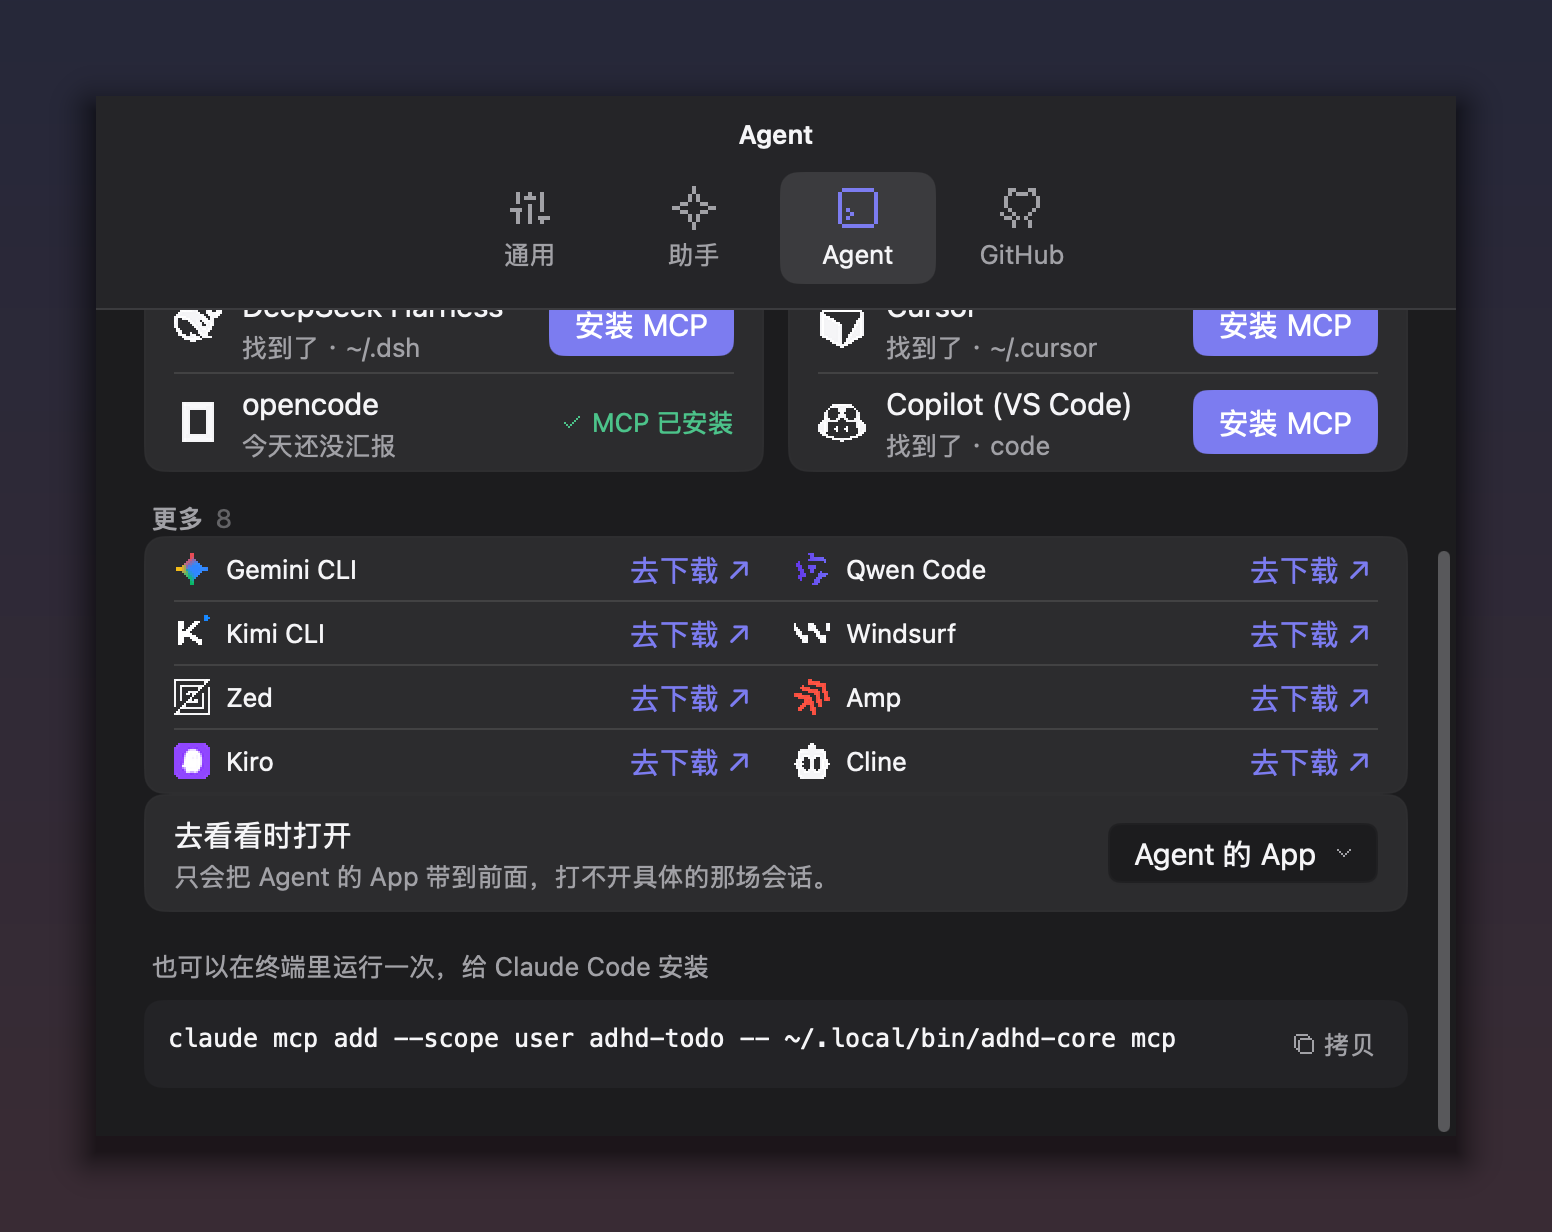
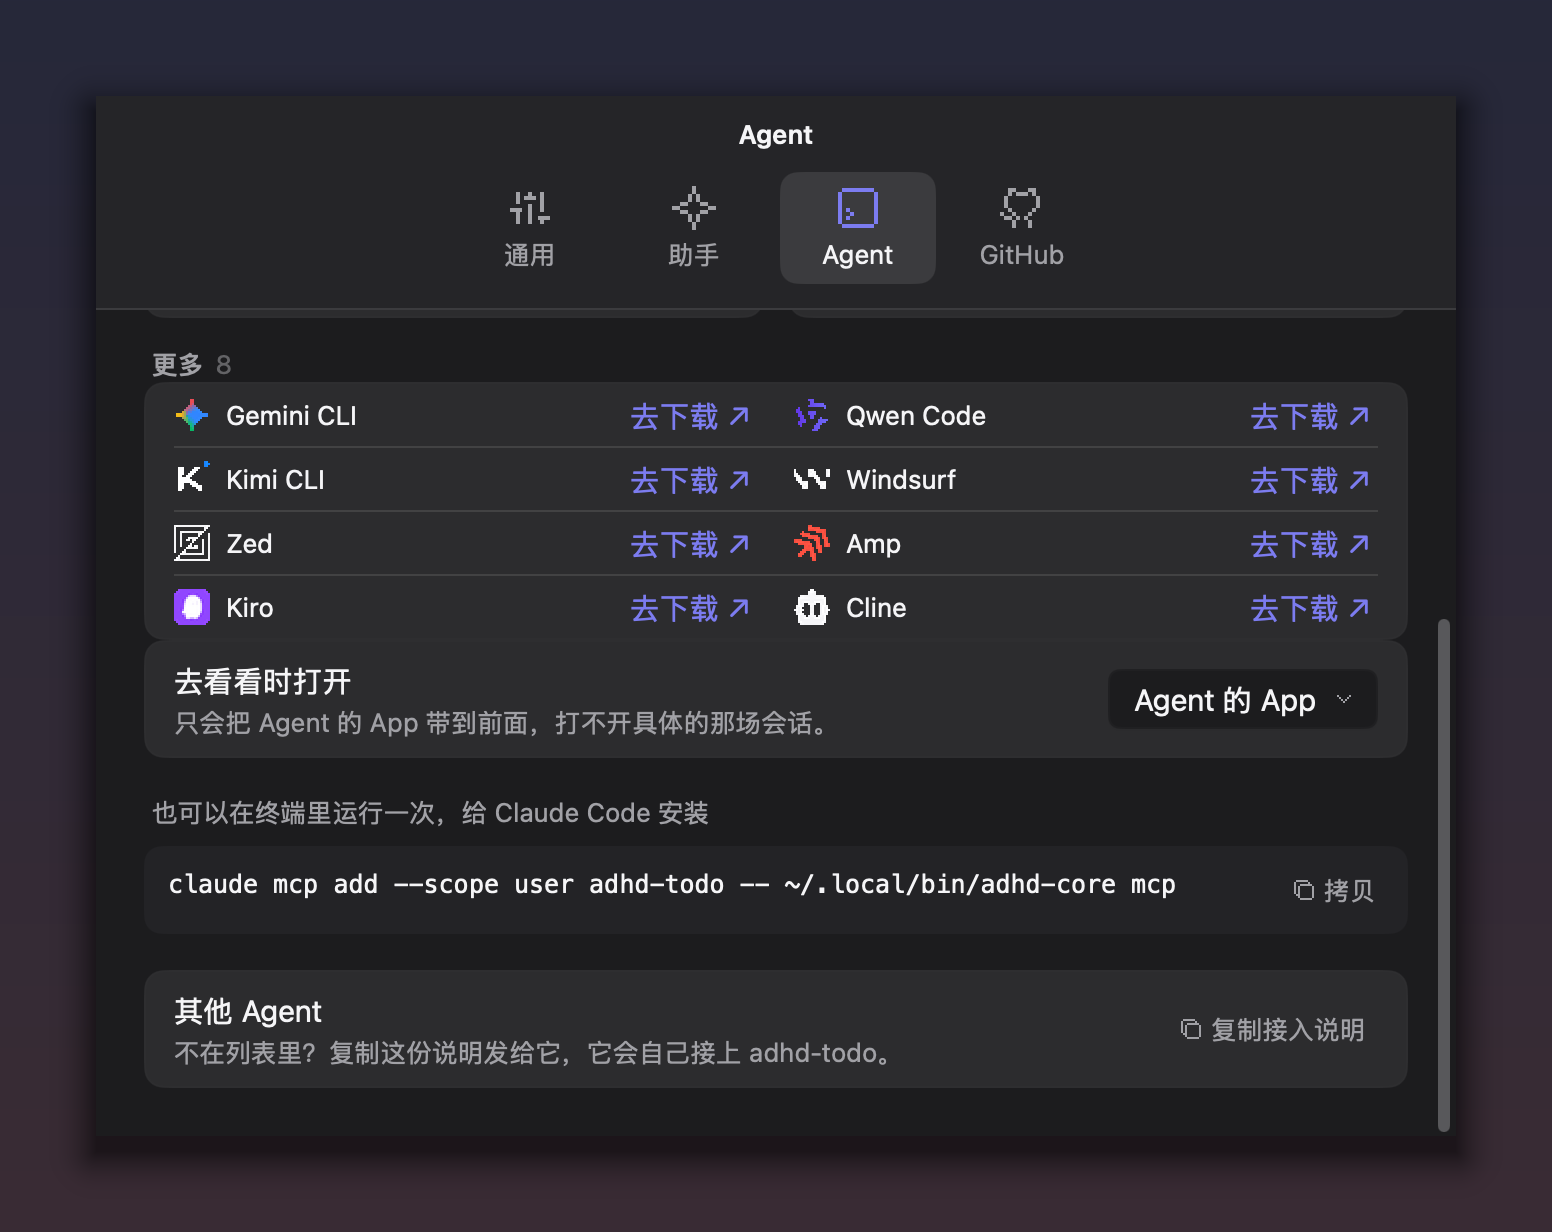
feat(agentsetup): a setup guide any agent can follow to add adhd-todo itself, printed by adhd-core guide and copied from Settings > Agents (#86)

diff --git a/app/views/settings_agents.go b/app/views/settings_agents.go
@@ -78,6 +78,13 @@ func (s *Settings) agentsPane(c *ui.Context, t *theme.Tokens) {
 		theme.Text(c, theme.Meta, t.TextSecondary, s.say.SettingsAgentsCommand()).Margin(0, 4)
 		commandWell(c, t, s.app.Config.ConnectCommand, func() { s.copyButton(c, t, "copy", s.app.Config.ConnectCommand) })
 	})
+	if env := s.app.Config.AgentSetup; env != nil {
+		group(c, t, "other-agent", func() {
+			settingsRow(c, t, "other-agent", s.say.SettingsAgentOther(), s.say.SettingsAgentOtherBody(), true, func() {
+				s.copyGuideButton(c, t, "copy-guide", env)
+			})
+		})
+	}
 }
 
 // splitAgents sorts the catalog into the ones on this Mac and the ones still to get. An agent
@@ -330,7 +337,12 @@ func (s *Settings) finishInstall(env *agentsetup.Env, a agentsetup.Agent, err er
 func (s *Settings) manualPanel(c *ui.Context, t *theme.Tokens, h *manualHint) {
 	ui.Column(c.Key("agent-manual")).Shrink(0).Gap(8).Margin(0, 0, 18).Children(func() {
 		theme.Paragraph(c, theme.Meta, t.TextSecondary, s.say.SettingsAgentManual(withTilde(h.file, s.app.Config.AgentSetup.Home)), 0).Margin(0, 4)
-		commandWell(c, t, h.snippet, func() { s.copyButton(c, t, "copy-manual", h.snippet) })
+		commandWell(c, t, h.snippet, func() {
+			ui.Column(c).Shrink(0).AlignItems(ui.End).Children(func() {
+				s.copyButton(c, t, "copy-manual", h.snippet)
+				s.copyGuideButton(c, t, "copy-guide-manual", s.app.Config.AgentSetup)
+			})
+		})
 	})
 }
 
@@ -346,9 +358,19 @@ func commandWell(c *ui.Context, t *theme.Tokens, command string, beside func()) 
 
 // copyButton copies text; for copiedFor afterwards it says Copied. key tells two buttons apart.
 func (s *Settings) copyButton(c *ui.Context, t *theme.Tokens, key, text string) {
+	s.copyAs(c, t, key, text, s.say.SettingsCopy(), s.say.A11yCopyCommand())
+}
+
+// copyGuideButton copies the guide any agent can follow to add adhd-todo to itself.
+func (s *Settings) copyGuideButton(c *ui.Context, t *theme.Tokens, key string, env *agentsetup.Env) {
+	s.copyAs(c, t, key, env.Guide(), s.say.SettingsCopyGuide(), s.say.SettingsCopyGuide())
+}
+
+// copyAs is the copy button: the pixel copy icon and word, or the check and Copied after a click.
+func (s *Settings) copyAs(c *ui.Context, t *theme.Tokens, key, text, word, label string) {
 	copied := s.copiedKey == key && !s.copied.IsZero() && s.app.Now().Sub(s.copied) < copiedFor
 	btn := ui.ButtonBase(c.Key(key)).Height(theme.HitTarget).Padding(0, 6).Gap(4).Radius(theme.RadiusControl).Shrink(0).
-		AlignItems(ui.Center).Label(s.say.A11yCopyCommand()).TextColor(t.TextSecondary).Cursor(ui.CursorPointer)
+		AlignItems(ui.Center).Label(label).TextColor(t.TextSecondary).Cursor(ui.CursorPointer)
 	if btn.Hovered() {
 		btn.Background(t.BgHover)
 	}
@@ -359,7 +381,7 @@ func (s *Settings) copyButton(c *ui.Context, t *theme.Tokens, key, text string) 
 			return
 		}
 		ui.Icon(c, theme.IconCopy).Size(theme.IconSmall, theme.IconSmall)
-		theme.Text(c, theme.Meta, t.TextSecondary, s.say.SettingsCopy())
+		theme.Text(c, theme.Meta, t.TextSecondary, word)
 	})
 	if btn.Clicked() {
 		c.WriteClipboard(text)

diff --git a/app/locales/catalog_gen.go b/app/locales/catalog_gen.go
@@ -5018,6 +5018,52 @@ func (msgs Messages) SettingsAgentsCommand() string {
 	return Catalog.Format(msgs.locale, "settingsAgentsCommand", nil)
 }
 
+// SettingsAgentOther says "Another agent"
+// in the language the app shows.
+//
+// Label of the row at the bottom of Settings > Agents for an agent that is
+// not in the list.
+func SettingsAgentOther() string { return In(i18n.Locale()).SettingsAgentOther() }
+
+// SettingsAgentOther says "Another agent"
+// in the language of msgs.
+//
+// Label of the row at the bottom of Settings > Agents for an agent that is
+// not in the list.
+func (msgs Messages) SettingsAgentOther() string {
+	return Catalog.Format(msgs.locale, "settingsAgentOther", nil)
+}
+
+// SettingsAgentOtherBody says "Not in the list? Copy this guide and paste it to the agent: it adds adhd-todo itself."
+// in the language the app shows.
+//
+// Second line of the Another agent row in Settings > Agents.
+func SettingsAgentOtherBody() string { return In(i18n.Locale()).SettingsAgentOtherBody() }
+
+// SettingsAgentOtherBody says "Not in the list? Copy this guide and paste it to the agent: it adds adhd-todo itself."
+// in the language of msgs.
+//
+// Second line of the Another agent row in Settings > Agents.
+func (msgs Messages) SettingsAgentOtherBody() string {
+	return Catalog.Format(msgs.locale, "settingsAgentOtherBody", nil)
+}
+
+// SettingsCopyGuide says "Copy setup guide"
+// in the language the app shows.
+//
+// Button that copies the guide an agent follows to add adhd-todo's MCP
+// server to itself; also its accessibility label.
+func SettingsCopyGuide() string { return In(i18n.Locale()).SettingsCopyGuide() }
+
+// SettingsCopyGuide says "Copy setup guide"
+// in the language of msgs.
+//
+// Button that copies the guide an agent follows to add adhd-todo's MCP
+// server to itself; also its accessibility label.
+func (msgs Messages) SettingsCopyGuide() string {
+	return Catalog.Format(msgs.locale, "settingsCopyGuide", nil)
+}
+
 // SettingsAgentNoCore says "adhd-core isn't at {path}. Build it first, then try again."
 // in the language the app shows.
 //

diff --git a/app/views/settings_guide_test.go b/app/views/settings_guide_test.go
@@ -1,0 +1,53 @@
+package views
+
+import (
+	"strings"
+	"testing"
+)
+
+func TestAnotherAgentRowCopiesTheSetupGuide(t *testing.T) {
+	for _, tc := range []struct {
+		locale, label, line, button, copied string
+	}{
+		{"en", "Another agent", "Not in the list? Copy this guide and paste it to the agent: it adds adhd-todo itself.", "Copy setup guide", "Copied"},
+		{"zh-Hans", "其他 Agent", "不在列表里？复制这份说明发给它，它会自己接上 adhd-todo。", "复制接入说明", "已拷贝"},
+	} {
+		t.Run(tc.locale, func(t *testing.T) {
+			r := newSettingsRig(t)
+			r.pane(t, "Agents")
+			r.tt.SetLocale(tc.locale)
+			r.tt.Frame()
+			r.tt.Scroll(340, 300, 0, 3000)
+			r.tt.Frame()
+			has(t, r.tt, tc.label, tc.line, tc.button)
+			mustNil(t, r.tt.Click(tc.button))
+			if got := r.tt.Clipboard(); got != r.mac.env.Guide() || !strings.Contains(got, r.mac.env.CorePath()) {
+				t.Errorf("clipboard %q", got)
+			}
+			r.tt.Frame()
+			has(t, r.tt, tc.copied)
+		})
+	}
+}
+
+func TestTheManualSnippetOfAFailedInstallHasTheGuideButtonToo(t *testing.T) {
+	r := newSettingsRig(t)
+	r.mac.write(".config/zed/settings.json", "// my settings\n{\n  \"theme\": \"One\", // dark\n}\n")
+	r.pane(t, "Agents")
+	mustNil(t, r.tt.Click("Install the MCP in Zed"))
+	r.rec.drain(t)
+	r.tt.Frame()
+	r.tt.Scroll(340, 300, 0, 330)
+	r.tt.Frame()
+	has(t, r.tt, "won't rewrite it", "Copy setup guide")
+	mustNil(t, r.tt.Click("Copy command"))
+	if clip := r.tt.Clipboard(); !strings.Contains(clip, `"context_servers"`) {
+		t.Errorf("the snippet's Copy copied %q", clip)
+	}
+	r.tt.Frame()
+	mustNil(t, r.tt.Click("Copy setup guide"))
+	r.tt.Frame()
+	if got := r.tt.Clipboard(); got != r.mac.env.Guide() {
+		t.Errorf("clipboard %q", got)
+	}
+}

diff --git a/internal/agentsetup/guide_test.go b/internal/agentsetup/guide_test.go
@@ -1,0 +1,41 @@
+package agentsetup
+
+import (
+	"encoding/json"
+	"strings"
+	"testing"
+)
+
+func TestGuideNamesTheServerAndFillsInTheCorePath(t *testing.T) {
+	env := &Env{Home: "/Users/me", Core: "/opt/tools/adhd-core"}
+	g := env.Guide()
+	for _, want := range []string{
+		"`/opt/tools/adhd-core`", `"command": "/opt/tools/adhd-core"`, `"mcp"`, "adhd-todo",
+		"get_overview", "report_progress", "/opt/tools/adhd-core --help", ".adhd-todo.bak", "task_id",
+	} {
+		if !strings.Contains(g, want) {
+			t.Errorf("the guide lacks %q:\n%s", want, g)
+		}
+	}
+	if strings.Contains(g, "{{") || strings.Contains(g, "}}") {
+		t.Errorf("an unfilled placeholder remains:\n%s", g)
+	}
+	// the generic entry is valid JSON
+	start := strings.Index(g, "```json\n") + len("```json\n")
+	end := strings.Index(g[start:], "\n```")
+	var entry struct {
+		Command string   `json:"command"`
+		Args    []string `json:"args"`
+	}
+	if err := json.Unmarshal([]byte(g[start:start+end]), &entry); err != nil ||
+		entry.Command != "/opt/tools/adhd-core" || len(entry.Args) != 1 || entry.Args[0] != "mcp" {
+		t.Errorf("entry %+v, err %v", entry, err)
+	}
+}
+
+func TestGuideDefaultsToTheCoreTheKnownAgentsGet(t *testing.T) {
+	env := New("/Users/me")
+	if g := env.Guide(); !strings.Contains(g, env.CorePath()) || !strings.Contains(g, "/Users/me/.local/bin/adhd-core") {
+		t.Errorf("the guide does not use %s:\n%s", env.CorePath(), g)
+	}
+}

diff --git a/cmd/adhd-core/cli_test.go b/cmd/adhd-core/cli_test.go
@@ -54,6 +54,7 @@ func TestUsageAndHelp(t *testing.T) {
 		{"serve is gone", []string{"serve"}, 2, "", "Unknown command: serve"},
 		{"--help", []string{"--help"}, 0, "overview", ""},
 		{"-h", []string{"-h"}, 0, "mcp", ""},
+		{"--help lists guide", []string{"--help"}, 0, "guide ", ""},
 	}
 	for _, tt := range tests {
 		t.Run(tt.name, func(t *testing.T) {
@@ -68,6 +69,25 @@ func TestUsageAndHelp(t *testing.T) {
 				t.Errorf("usage errors must not write stdout: %q", h.out.String())
 			}
 		})
+	}
+}
+
+func TestGuidePrintsTheSetupGuideWithTheCorePath(t *testing.T) {
+	h := newHarness(t, filepath.Join(t.TempDir(), "never-opened.db"))
+	if code := run(context.Background(), []string{"guide"}, h.d); code != 0 {
+		t.Fatalf("exit code %d: %s", code, h.err.String())
+	}
+	out := h.out.String()
+	for _, want := range []string{filepath.Join(h.d.home, ".local", "bin", "adhd-core"), `"mcp"`, "get_overview", "report_progress"} {
+		if !strings.Contains(out, want) {
+			t.Errorf("stdout lacks %q:\n%s", want, out)
+		}
+	}
+	if strings.Contains(out, "{{") || h.err.Len() != 0 {
+		t.Errorf("placeholder left or stderr %q", h.err.String())
+	}
+	if _, err := os.Stat(filepath.Join(filepath.Dir(h.d.getenv("ADHD_TODO_DB")), "never-opened.db")); err == nil {
+		t.Error("guide opened the database")
 	}
 }
 

diff --git a/cmd/adhd-core/cli.go b/cmd/adhd-core/cli.go
@@ -9,6 +9,7 @@ import (
 
 	"github.com/modelcontextprotocol/go-sdk/mcp"
 
+	"github.com/QingYunA/adhd-todo/internal/agentsetup"
 	"github.com/QingYunA/adhd-todo/internal/domain"
 	"github.com/QingYunA/adhd-todo/internal/mcpserver"
 	"github.com/QingYunA/adhd-todo/internal/paths"
@@ -20,6 +21,7 @@ const usage = `Usage: adhd-core <command>
 Commands:
   mcp        Run the MCP server on stdio
   overview   Print active tasks per project, with stale flags
+  guide      Print a setup guide to paste to any coding agent, so it adds this MCP server itself
 `
 
 // Exit codes.
@@ -55,6 +57,9 @@ func run(ctx context.Context, args []string, d deps) int {
 	switch args[0] {
 	case "--help", "-h":
 		_, _ = io.WriteString(d.stdout, usage)
+		return exitOK
+	case "guide":
+		_, _ = io.WriteString(d.stdout, agentsetup.New(d.home).Guide())
 		return exitOK
 	case "mcp", "overview":
 		if err := execute(ctx, args[0], d); err != nil {

diff --git a/internal/agentsetup/guide.go b/internal/agentsetup/guide.go
@@ -1,0 +1,22 @@
+package agentsetup
+
+import (
+	_ "embed"
+	"encoding/json"
+	"strings"
+)
+
+//go:embed guide.md
+var guideTemplate string
+
+// Guide is a self-contained setup guide for any coding agent: the user pastes it to an agent that
+// adhd-todo does not know, and the agent adds the MCP server to itself. The path of adhd-core is
+// the one the known agents get.
+func (e *Env) Guide() string {
+	core := e.core()
+	entry, _ := json.MarshalIndent(struct {
+		Command string   `json:"command"`
+		Args    []string `json:"args"`
+	}{core, []string{"mcp"}}, "", "  ")
+	return strings.NewReplacer("{{CORE}}", core, "{{ENTRY}}", string(entry)).Replace(guideTemplate)
+}

diff --git a/app/views/settings_agents_test.go b/app/views/settings_agents_test.go
@@ -349,7 +349,7 @@ func TestAZedFileWithCommentsIsNotRewrittenAndTheSnippetCanBeCopied(t *testing.T
 	if string(b) != orig {
 		t.Errorf("the file was rewritten: %s", b)
 	}
-	r.tt.Scroll(340, 300, 0, 3000)
+	r.tt.Scroll(340, 300, 0, 330) // the snippet's well comes into view
 	r.tt.Frame()
 	mustNil(t, r.tt.Click("Copy command"))
 	if clip := r.tt.Clipboard(); !strings.Contains(clip, `"adhd-todo": {`) || strings.Contains(clip, "claude mcp add") {

diff --git a/internal/agentsetup/guide.md b/internal/agentsetup/guide.md
@@ -1,0 +1,53 @@
+# Connect yourself to adhd-todo
+
+## 1. Goal
+
+Add adhd-todo's MCP server to yourself, at user scope (all projects), so you can report your work to the user's adhd-todo app.
+
+## 2. The server
+
+- Name: `adhd-todo`
+- Transport: stdio
+- Command: `{{CORE}}`
+- Args: `["mcp"]`
+- Env: none needed
+
+As a generic JSON entry:
+
+```json
+{{ENTRY}}
+```
+
+## 3. How to install
+
+1. Prefer your own command for adding MCP servers (for example an `mcp add` subcommand), at user scope.
+2. If you have none, edit your MCP config file: copy it to `<file>.adhd-todo.bak` first, add only the `adhd-todo` entry, change nothing else, and keep the file valid.
+3. If you cannot tell where your config is, ask the user instead of guessing.
+
+Do not install anything else.
+
+## 4. Verify
+
+Reload your MCP servers (or ask the user to restart you), then call the `get_overview` tool. If it answers, the server works.
+
+If it fails, check that the command path exists and runs: `{{CORE}} --help`.
+
+## 5. How to use it
+
+Call `report_progress`:
+
+- when you start a task (summary = the goal; status "doing"),
+- after each step,
+- when you are blocked (status "blocked"; say in next_step what you need),
+- when you open a PR (pr_url, status "review"),
+- when you finish (status "done").
+
+Always pass `cwd`: your current working directory. Pass `task_id` when the user names an adhd-todo task ("do #44"); read it with `get_task` first. When one piece of work covers several tasks, report on each with its own `task_id`. Write summaries in the user's language. Keep each report to one or two short sentences. Do not report trivial questions or read-only exploration.
+
+## 6. Optional: a standing rule
+
+Some agents do not read an MCP server's own instructions. Offer to add a short rule with the points of step 5 to your global instructions file (for example `~/.claude/CLAUDE.md`, `AGENTS.md`, or your equivalent). Ask the user first; do it only if they agree.
+
+## 7. Tell the user
+
+Finish by telling the user which file or command you used, and the result of the check in step 4.

diff --git a/docs/design/ui-spec.md b/docs/design/ui-spec.md
@@ -1327,6 +1327,12 @@ the flicker). Each pane has its own scroll key. Reference: `v4.html` frames 5 to
   JSON, or when a Cordis patch is not a patch list adhd-todo can append to; then the **Open agent
   work in** / `去看看时打开` row with its pop-up (`The agent's app` default,
   `Terminal`, `Editor`, `Finder`), and the `claude mcp add` command in a mono well with **Copy**.
+  Under it, **Another agent** / `其他 Agent`: one `meta` line and **Copy setup guide** /
+  `复制接入说明`, which copies a guide any agent can follow to add adhd-todo itself (`agentsetup`
+  Guide, also printed by `adhd-core guide`): the server, how to install it (its own command first,
+  else its config file after a backup), how to check it (`get_overview`), how to report, and an
+  offer to add the reporting rule to the agent's global instructions after asking the user. The
+  manual snippet of a failed install has the same button. (#86)
   The choice is kept in `prefs.json` next to the database. Screens `settings-agents-*`; the
   scrolled one is `settings-agents-open-with-*`. "Install MCP" is the only word for this; it is
   never called connecting. Detection (`internal/agentsetup`) reads files and looks on PATH (plus

diff --git a/README.md b/README.md
@@ -34,6 +34,9 @@ Register the MCP server once (user scope):
 claude mcp add --scope user adhd-todo -- ~/.local/bin/adhd-core mcp
 ```
 
+Other agents can add the server themselves: paste them the output of `adhd-core guide` (or use
+Settings > Agents > Copy setup guide in the app).
+
 Agents then report progress to the app. To see what they are doing from a terminal:
 
 ```sh
